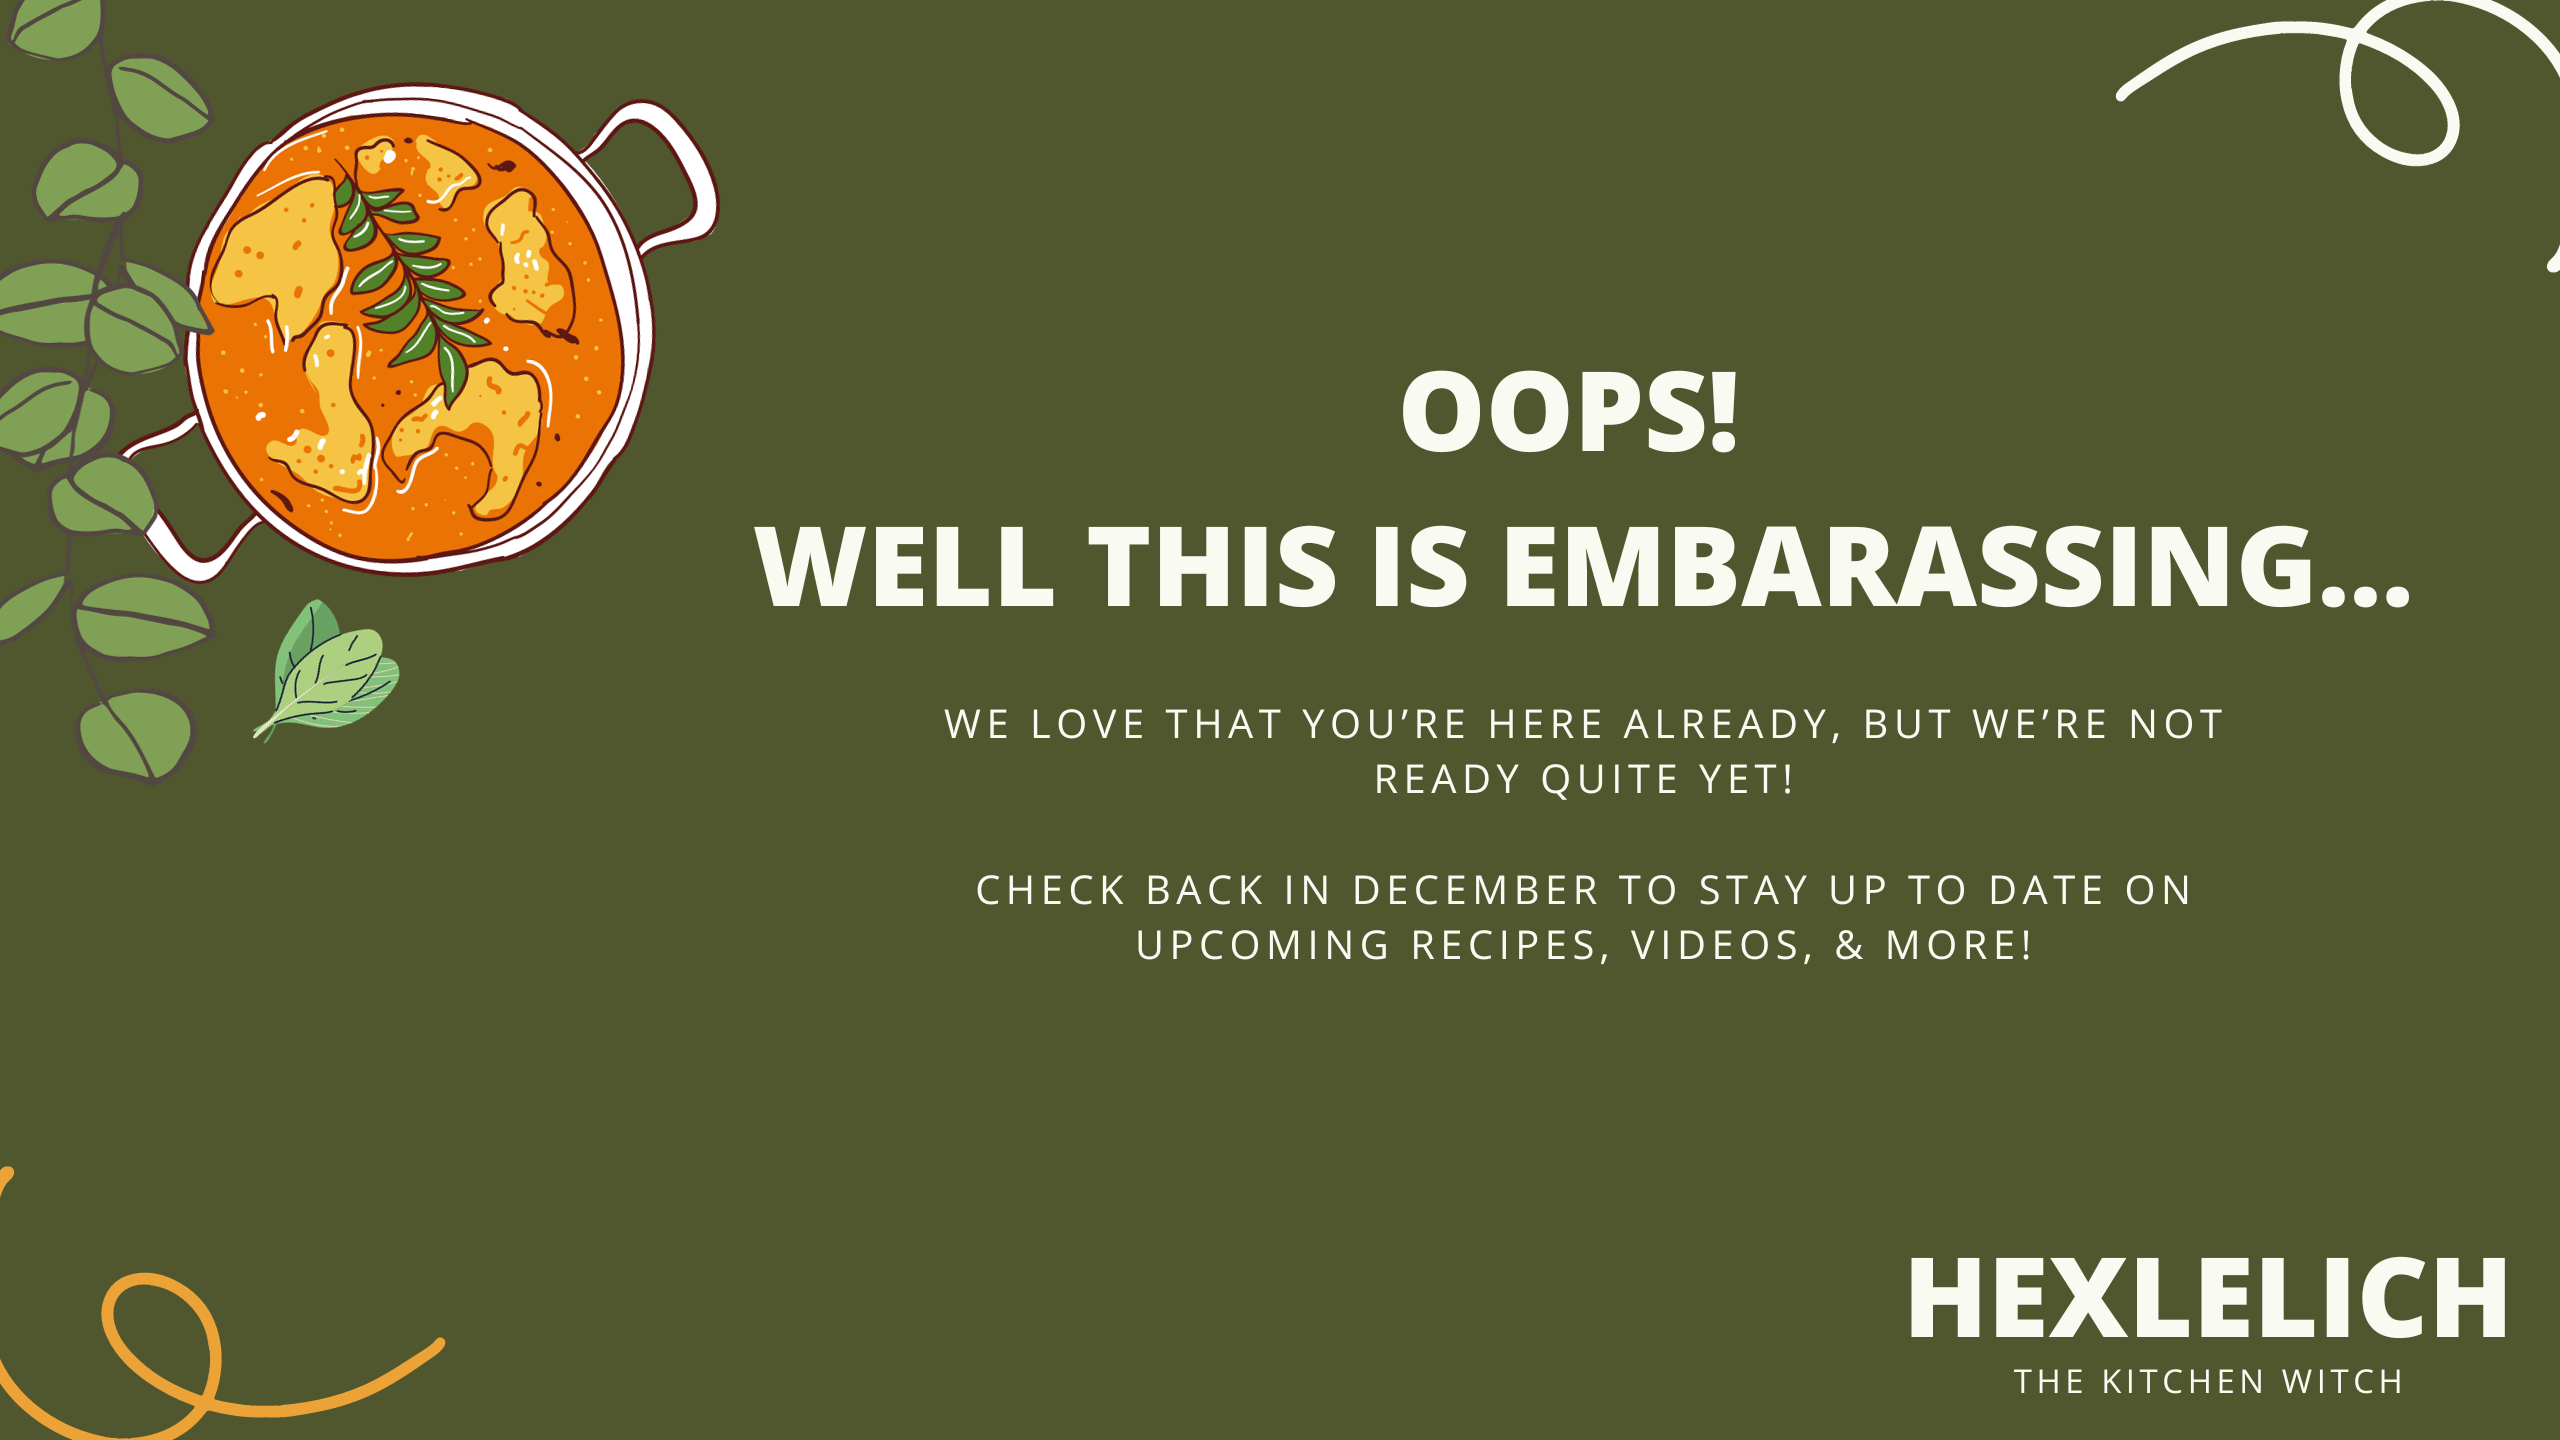
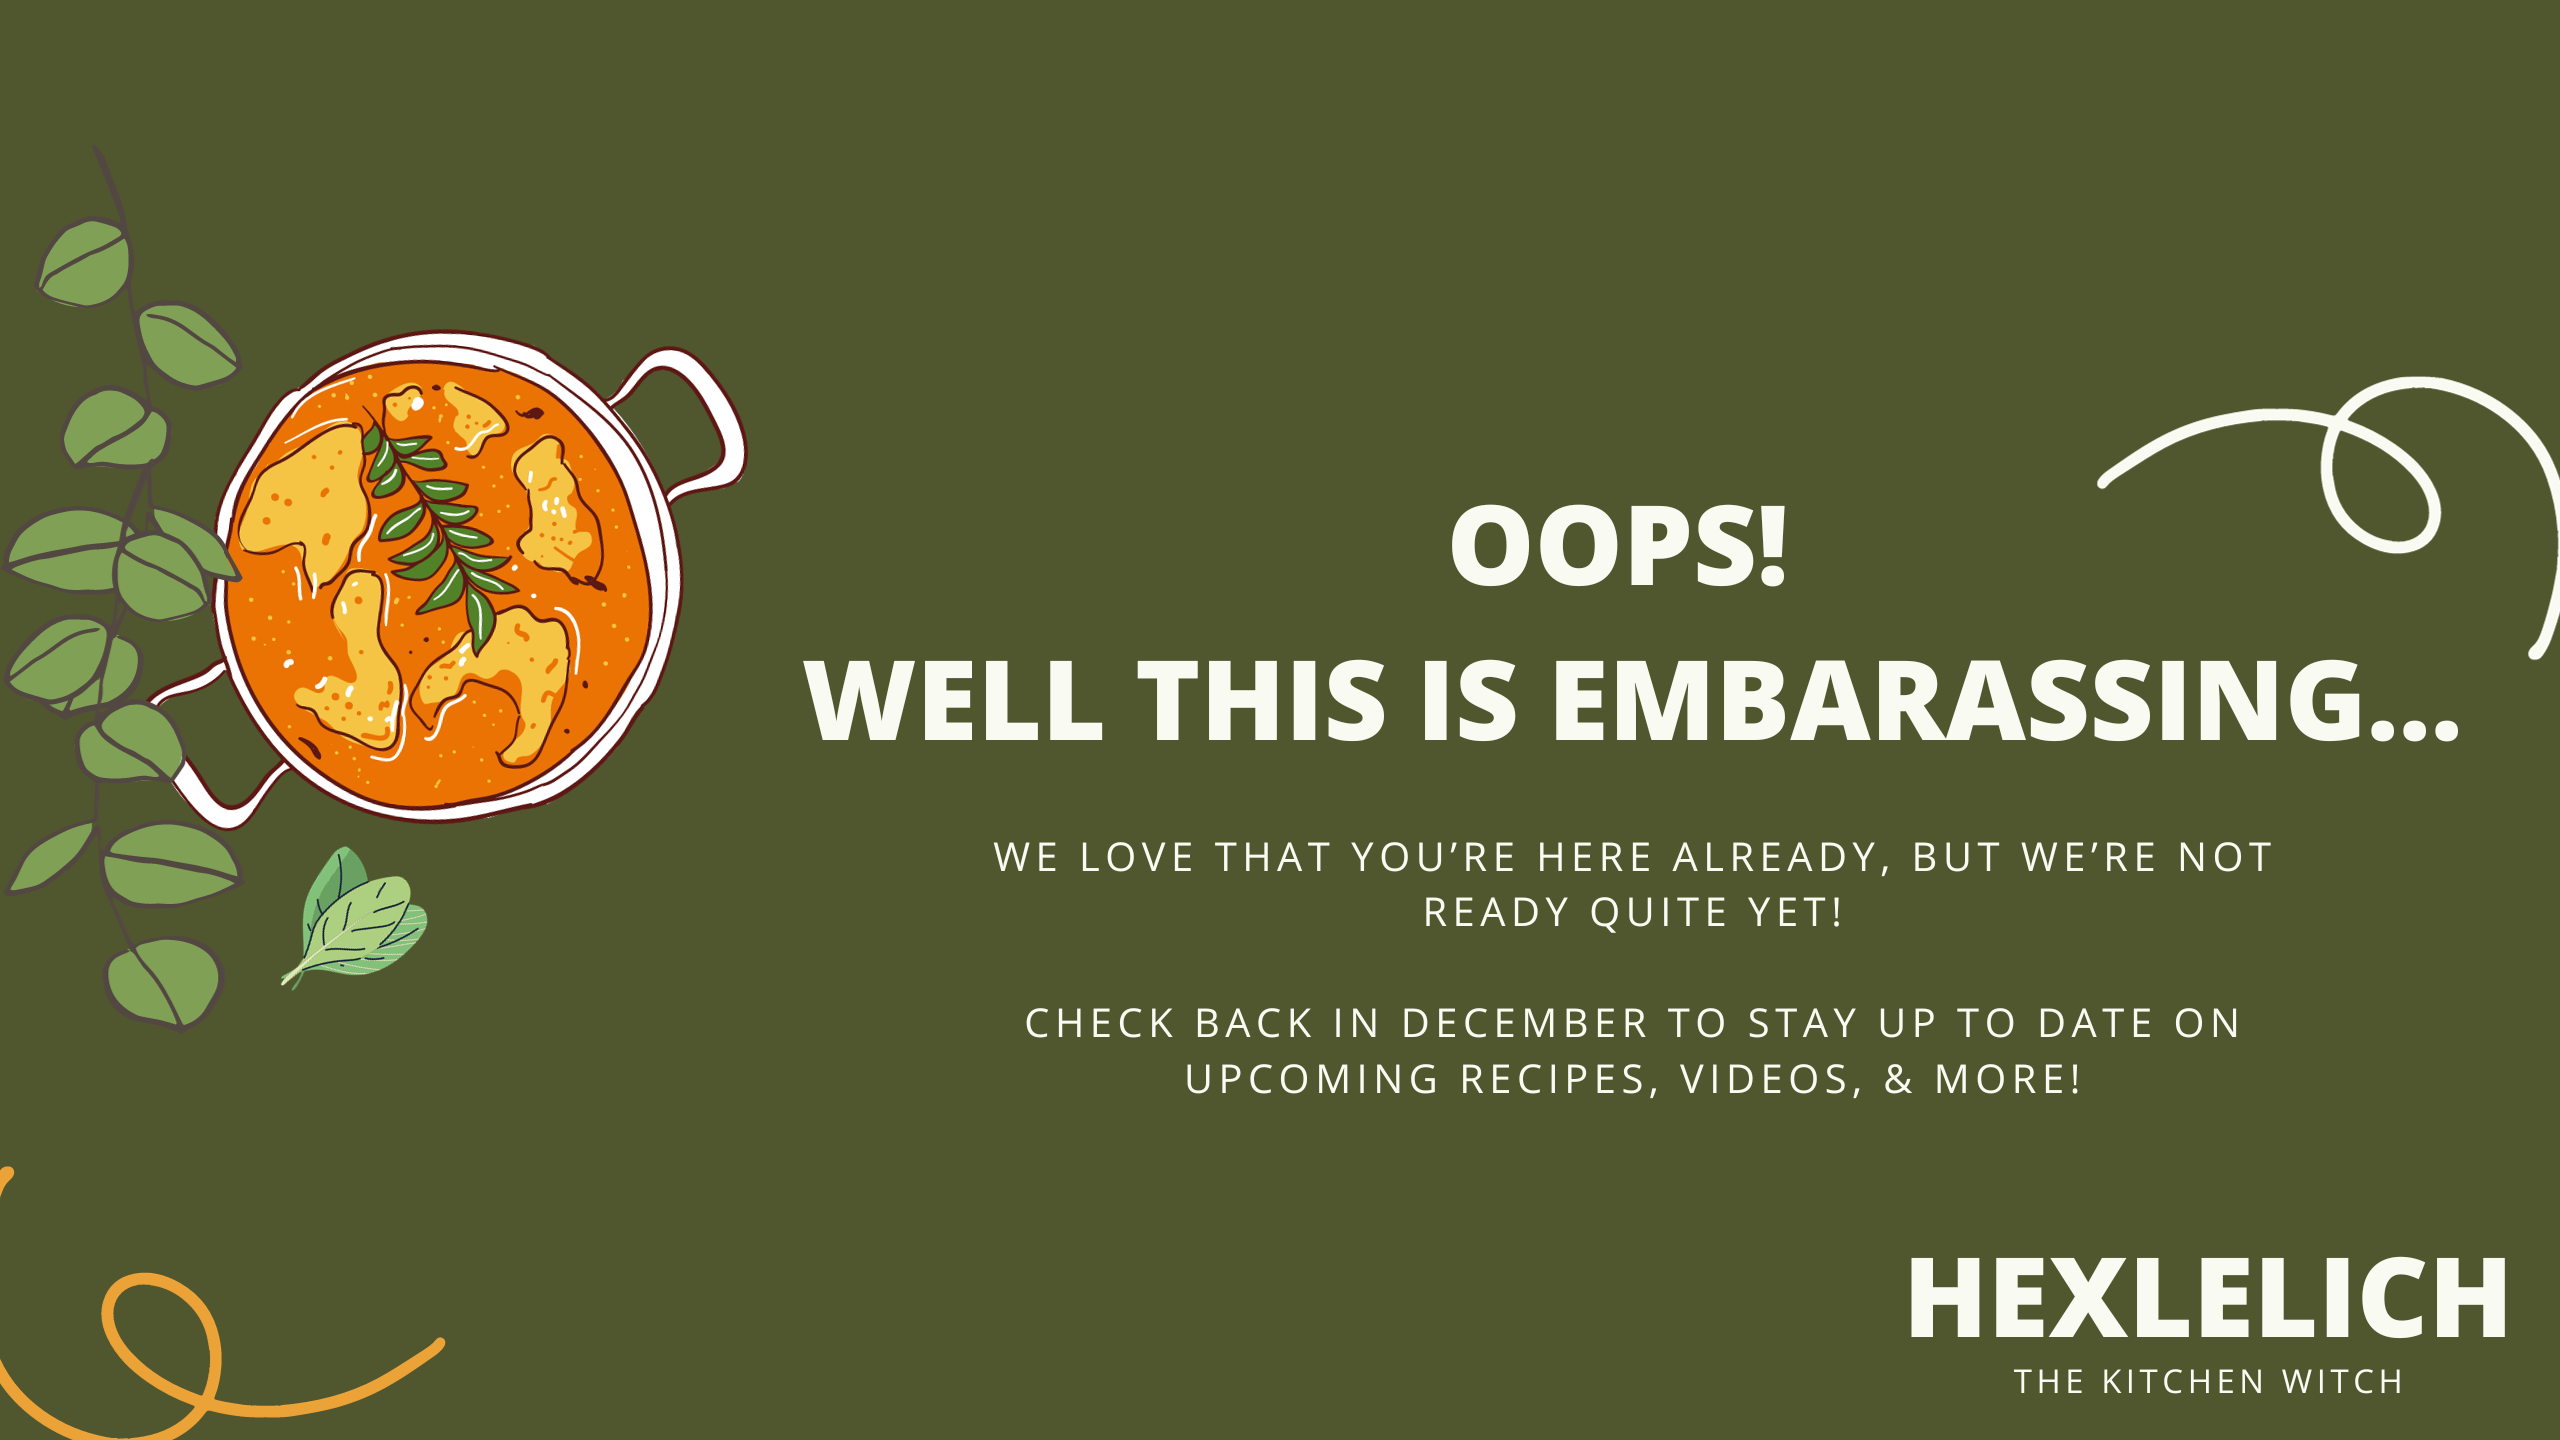
feat: working on contact background

diff --git a/src/components/header/header.css b/src/components/header/header.css
@@ -1,33 +1,13 @@
-/* .header {
-    background: linear-gradient(16deg, rgba(79, 162, 133, 1) 4%, rgba(67, 166, 134, 1) 30%, rgba(31, 87, 66, 1) 68%, rgba(36, 73, 65, 1) 91%);
-    background-size: cover;
-    background-position: center;
-    height: 200px;
-    display: flex;
-    flex-direction: column;
-    justify-content: center;
-    align-items: center;
-    border-bottom: 3px solid #18453B;
-}
-
-.header-name {
-    margin: 0.5rem;
-    font-family: 'Lato';
-    text-align: center;
-    border-radius: 1rem;
-    color: #BCDDCDff;
-    font-size: 3rem;
-    padding: 0.5rem 1rem;
-}
-
-.navbar {
-    background-color: #244941;
-    width: 475px;
-    height: 75px;
+.nav-bar {
+    background-color: white;
     padding-left: 2rem;
-    border-radius: 53% 47% 62% 8% / 29% 77% 23% 71%;
 }
 
-.nav-link {
+.nav-links {
     font-family: 'Lato';
-} */
+}
+
+.nav-links:hover {
+    font-family: 'Lato';
+    color: green;
+}

diff --git a/src/components/header/header.jsx b/src/components/header/header.jsx
@@ -3,14 +3,16 @@ import Nav from 'react-bootstrap/Nav';
 import Navbar from 'react-bootstrap/Navbar';
 import NavDropdown from 'react-bootstrap/NavDropdown';
 
+import './header.css'
+
 function HeaderNav() {
   return (
-    <Navbar expand='lg' className='bg-body-tertiary'>
+    <Navbar expand='lg' className='nav-bar'>
       <Container>
         <Navbar.Brand href='#home'>HexleLich || The Kitchen Witch</Navbar.Brand>
         <Navbar.Toggle aria-controls='basic-navbar-nav' />
-        <Navbar.Collapse id='basic-navbar-nav'>
-          <Nav className='me-auto'>
+        <Navbar.Collapse >
+          <Nav className='nav-links'>
             <Nav.Link href='/about'>The Story...</Nav.Link>
             <Nav.Link href='/recipes'>Recipes</Nav.Link>
             <Nav.Link href='/contact'>Contact</Nav.Link>

diff --git a/src/components/contact/contact.css b/src/components/contact/contact.css
@@ -1,3 +1,11 @@
+body {
+    display: flex;
+    flex-direction: column;
+    min-height: 100vh;
+    background-size: cover;
+    background-position: bottom;
+    background-image: url('../../assets/oops404.png');
+}
 
 .contact-subtitle {
     margin-top: 5rem;

diff --git a/src/components/contact/contact.jsx b/src/components/contact/contact.jsx
@@ -2,7 +2,7 @@ import { useState } from 'react';
 import { Container, Row, Col } from 'react-bootstrap';
 
 import emailjs from 'emailjs-com';
-import './Contact.css';
+import './contact.css'
 
 const Contact = () => {
   const [name, setName] = useState('');
